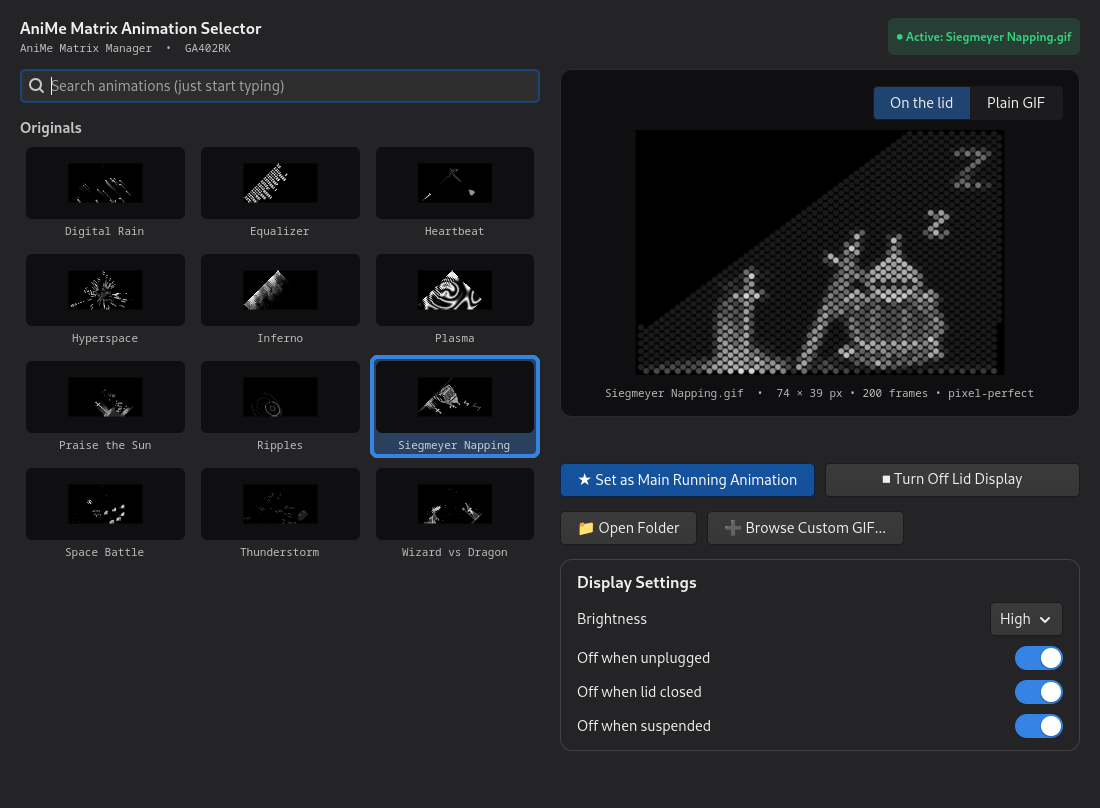
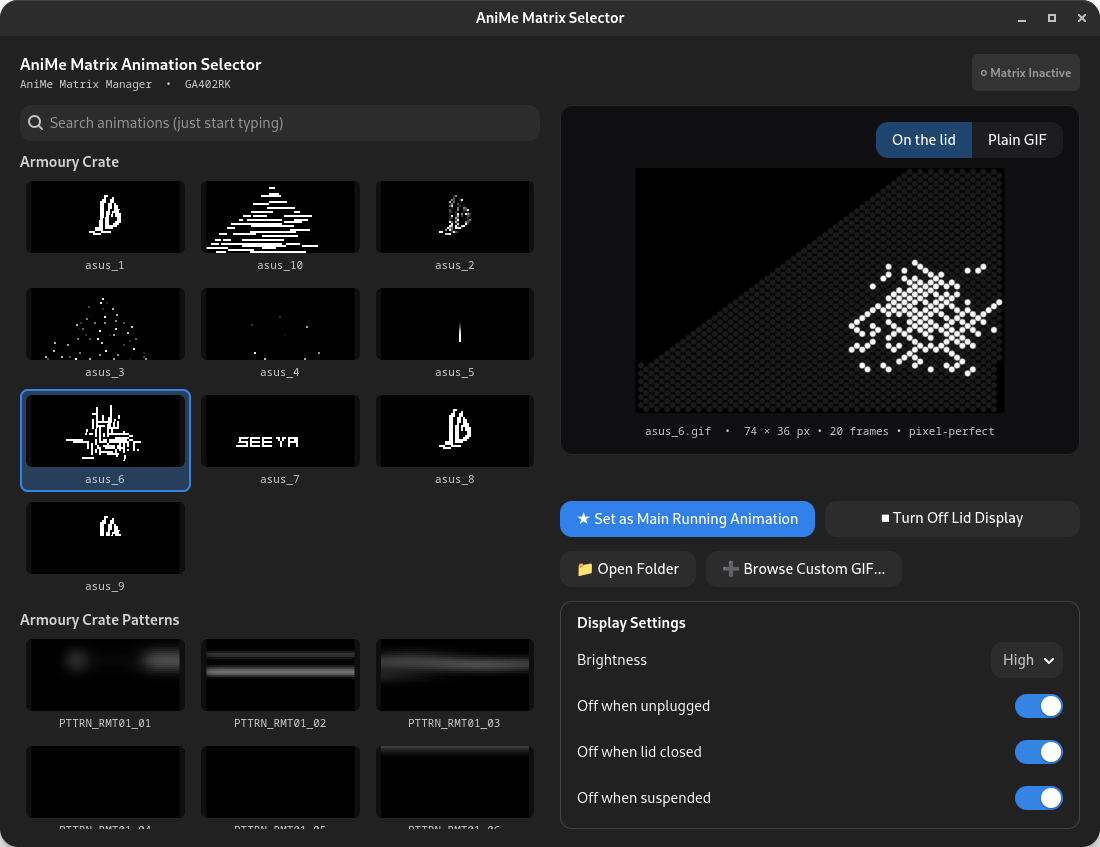
Colour the status badge by state and refresh the screenshot
The badge was always green, even for "Matrix Inactive" and "Active GIF
missing"; now it is green while playing, grey when off and amber for a missing
GIF. The screenshot now shows the Armoury Crate sections.

diff --git a/anime_matrix_selector/ui/style.css b/anime_matrix_selector/ui/style.css
@@ -16,13 +16,23 @@ window {
     opacity: 0.75;
     font-family: monospace;
 }
-.active-badge {
+.status-badge {
     font-size: 12px;
     font-weight: bold;
-    color: #33d17a;
-    background: rgba(51, 209, 122, 0.15);
     border-radius: 6px;
     padding: 3px 8px;
+}
+.status-badge.playing {
+    color: #33d17a;
+    background: rgba(51, 209, 122, 0.15);
+}
+.status-badge.off {
+    color: #9a9996;
+    background: rgba(154, 153, 150, 0.15);
+}
+.status-badge.warning {
+    color: #e5a50a;
+    background: rgba(229, 165, 10, 0.15);
 }
 .status-success {
     color: #33d17a;

diff --git a/anime_matrix_selector/ui/app.py b/anime_matrix_selector/ui/app.py
@@ -119,8 +119,8 @@ class AniMeMatrixApp(Gtk.Application):
         titles.append(subtitle)
         header.append(titles)
 
-        self.lbl_badge = Gtk.Label(label="● Active in Background")
-        self.lbl_badge.add_css_class("active-badge")
+        self.lbl_badge = Gtk.Label()
+        self.set_badge("○ Checking…", "off")
         header.append(self.lbl_badge)
         return header
 
@@ -227,13 +227,18 @@ class AniMeMatrixApp(Gtk.Application):
         run_in_background(lambda: backend.service_state(self.cfg), self.show_service_state,
                           self.on_background_error)
 
+    def set_badge(self, text, state):
+        """state is "playing", "off" or "warning", which picks the badge's colour."""
+        self.lbl_badge.set_text(text)
+        self.lbl_badge.set_css_classes(["status-badge", state])
+
     def show_service_state(self, state):
         if state.active_missing:
-            self.lbl_badge.set_text("⚠ Active GIF missing, pick another")
+            self.set_badge("⚠ Active GIF missing, pick another", "warning")
         elif state.playing:
-            self.lbl_badge.set_text(f"● Active: {os.path.basename(state.active_path)}")
+            self.set_badge(f"● Active: {os.path.basename(state.active_path)}", "playing")
         else:
-            self.lbl_badge.set_text("○ Matrix Inactive")
+            self.set_badge("○ Matrix Inactive", "off")
         self.library.mark_active(state.active_path if state.playing else None)
 
     # ---- actions -----------------------------------------------------------------------

diff --git a/README.md b/README.md
@@ -7,7 +7,7 @@ laptops, on top of [asusctl](https://gitlab.com/asus-linux/asusctl) 6 or newer. 
 and tested on a Zephyrus G14 GA402RK; it should also work on the other AniMe models asusd
 supports (GA401, GU604), without the lid preview there (see below).
 
-![The selector with the Originals and the lid preview](docs/screenshot.png)
+![The selector showing the Armoury Crate animations and the lid preview](docs/screenshot.png)
 
 This is an independent project, not made or endorsed by ASUS. ROG, Zephyrus and AniMe
 Matrix are ASUS trademarks.
